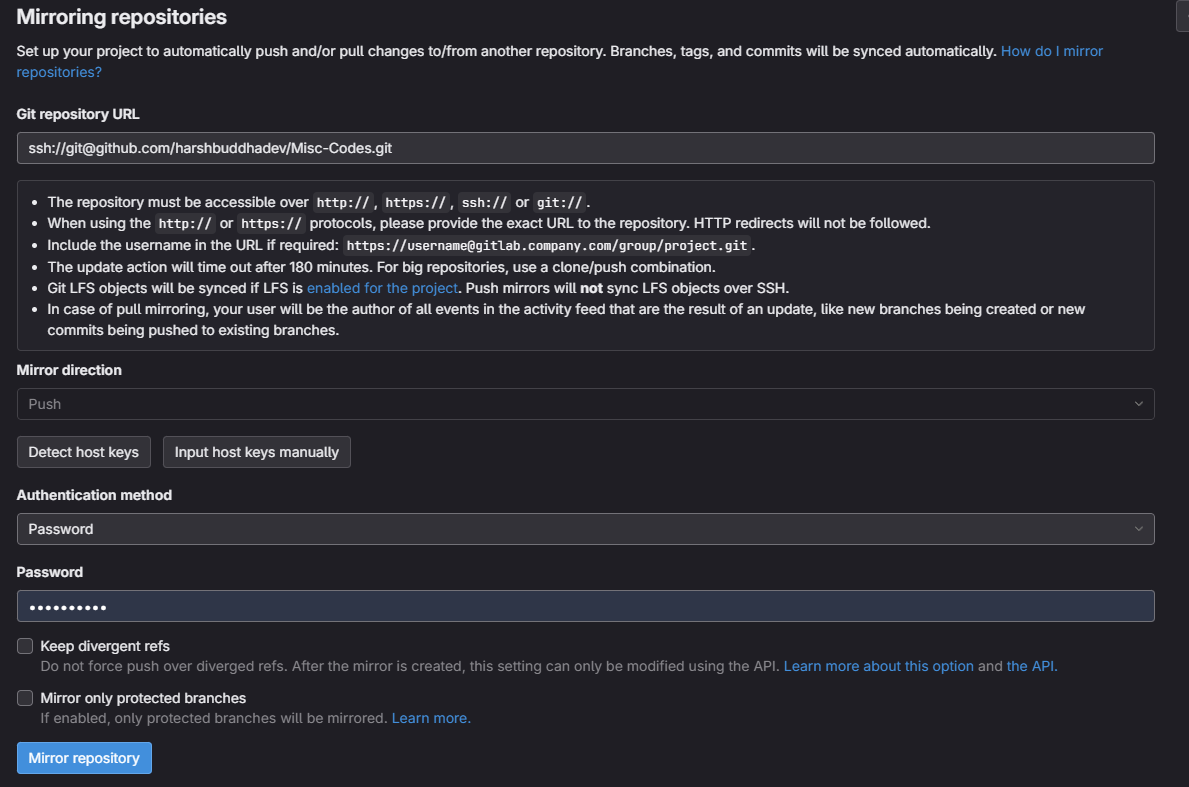
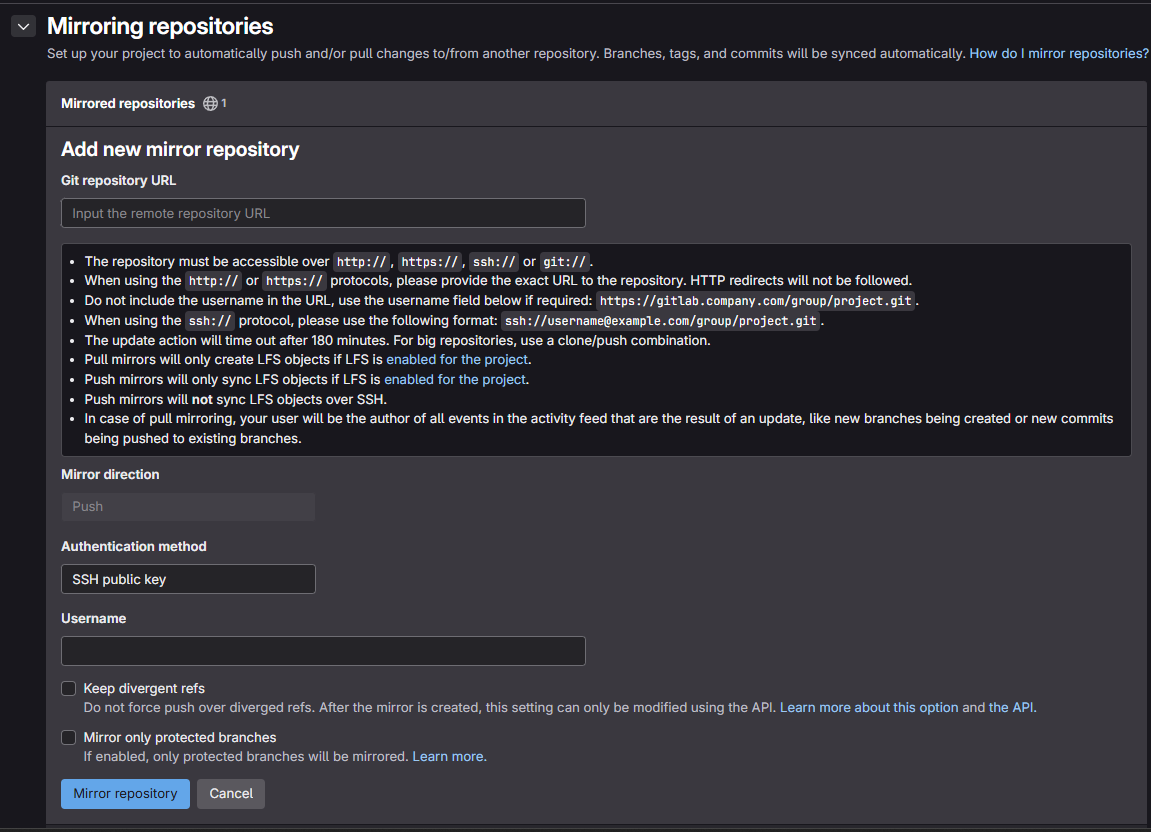
Updated Git Mirror Setup

diff --git a/Git/git-mirror-setup.md b/Git/git-mirror-setup.md
@@ -34,10 +34,11 @@
     ```
 16. Enter the Following Values
 
-| Parameter             	| Value          	|
-|-----------------------	|----------------	|
-| Mirror Direction      	| Push           	|
-| Authentication Method 	| SSH Public Key 	|
+| Parameter                 | Value              |
+|-----------------------    |----------------    |
+| Mirror Direction          | Push               |
+| Authentication Method     | SSH Public Key     |
+| Username                  | git                |
 
 17. Click on Detect Host Keys
 18. Click on Mirror Repository
